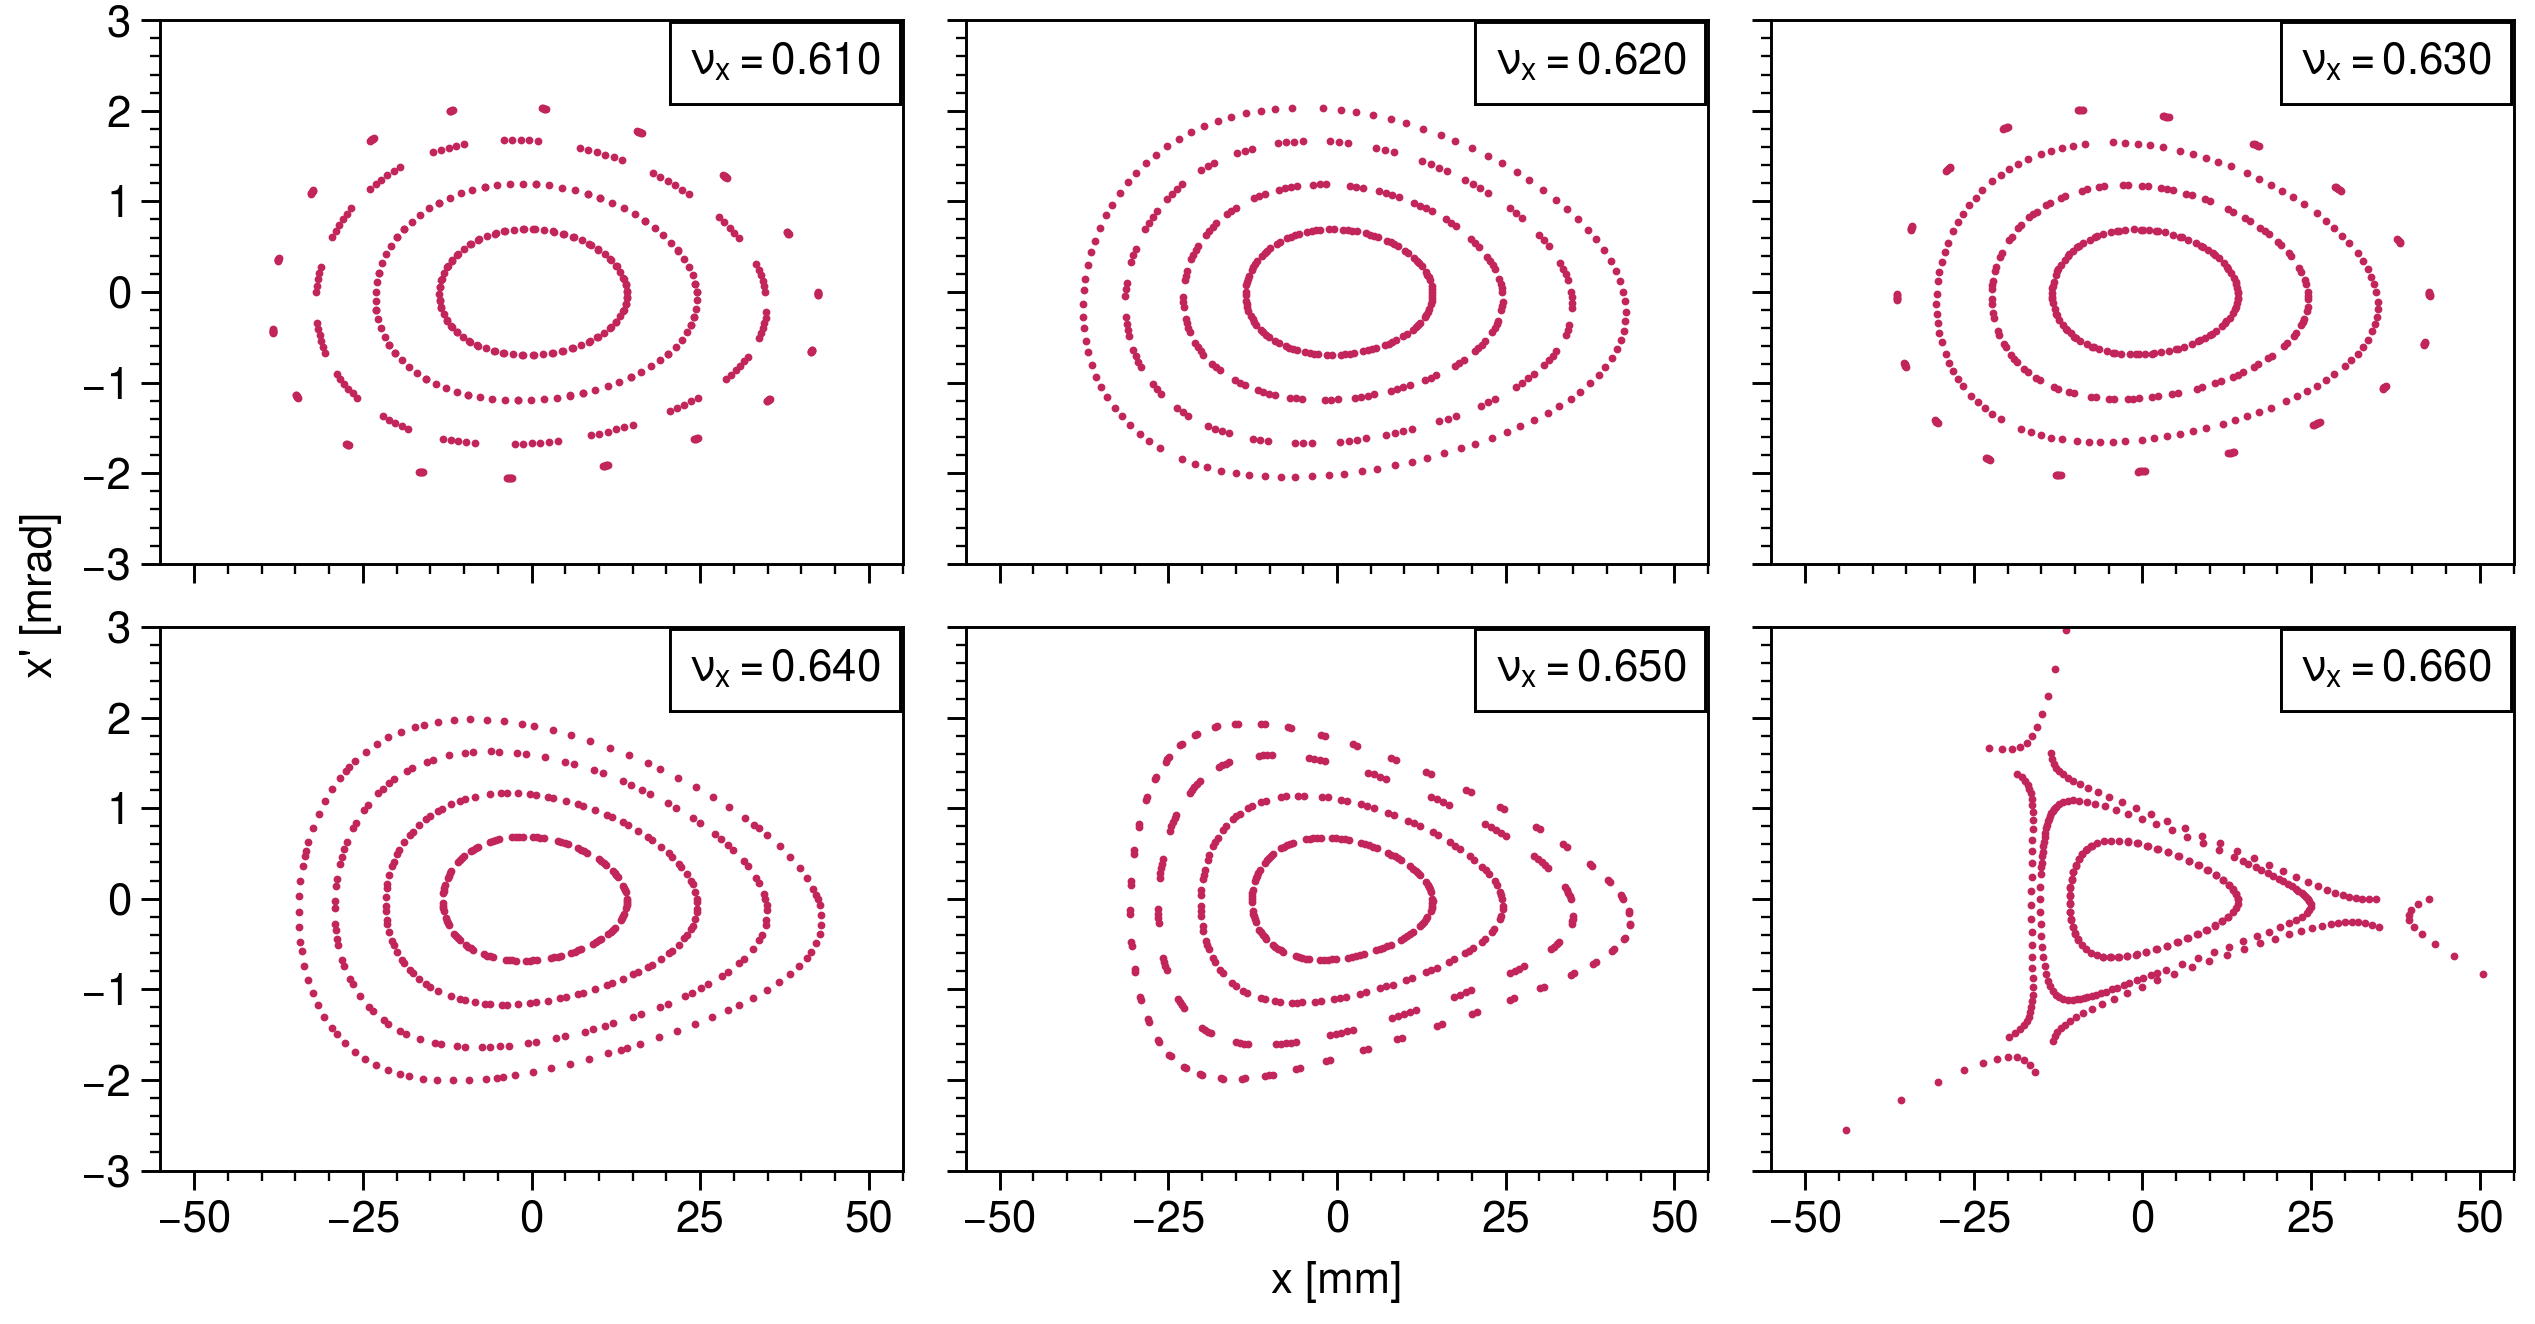
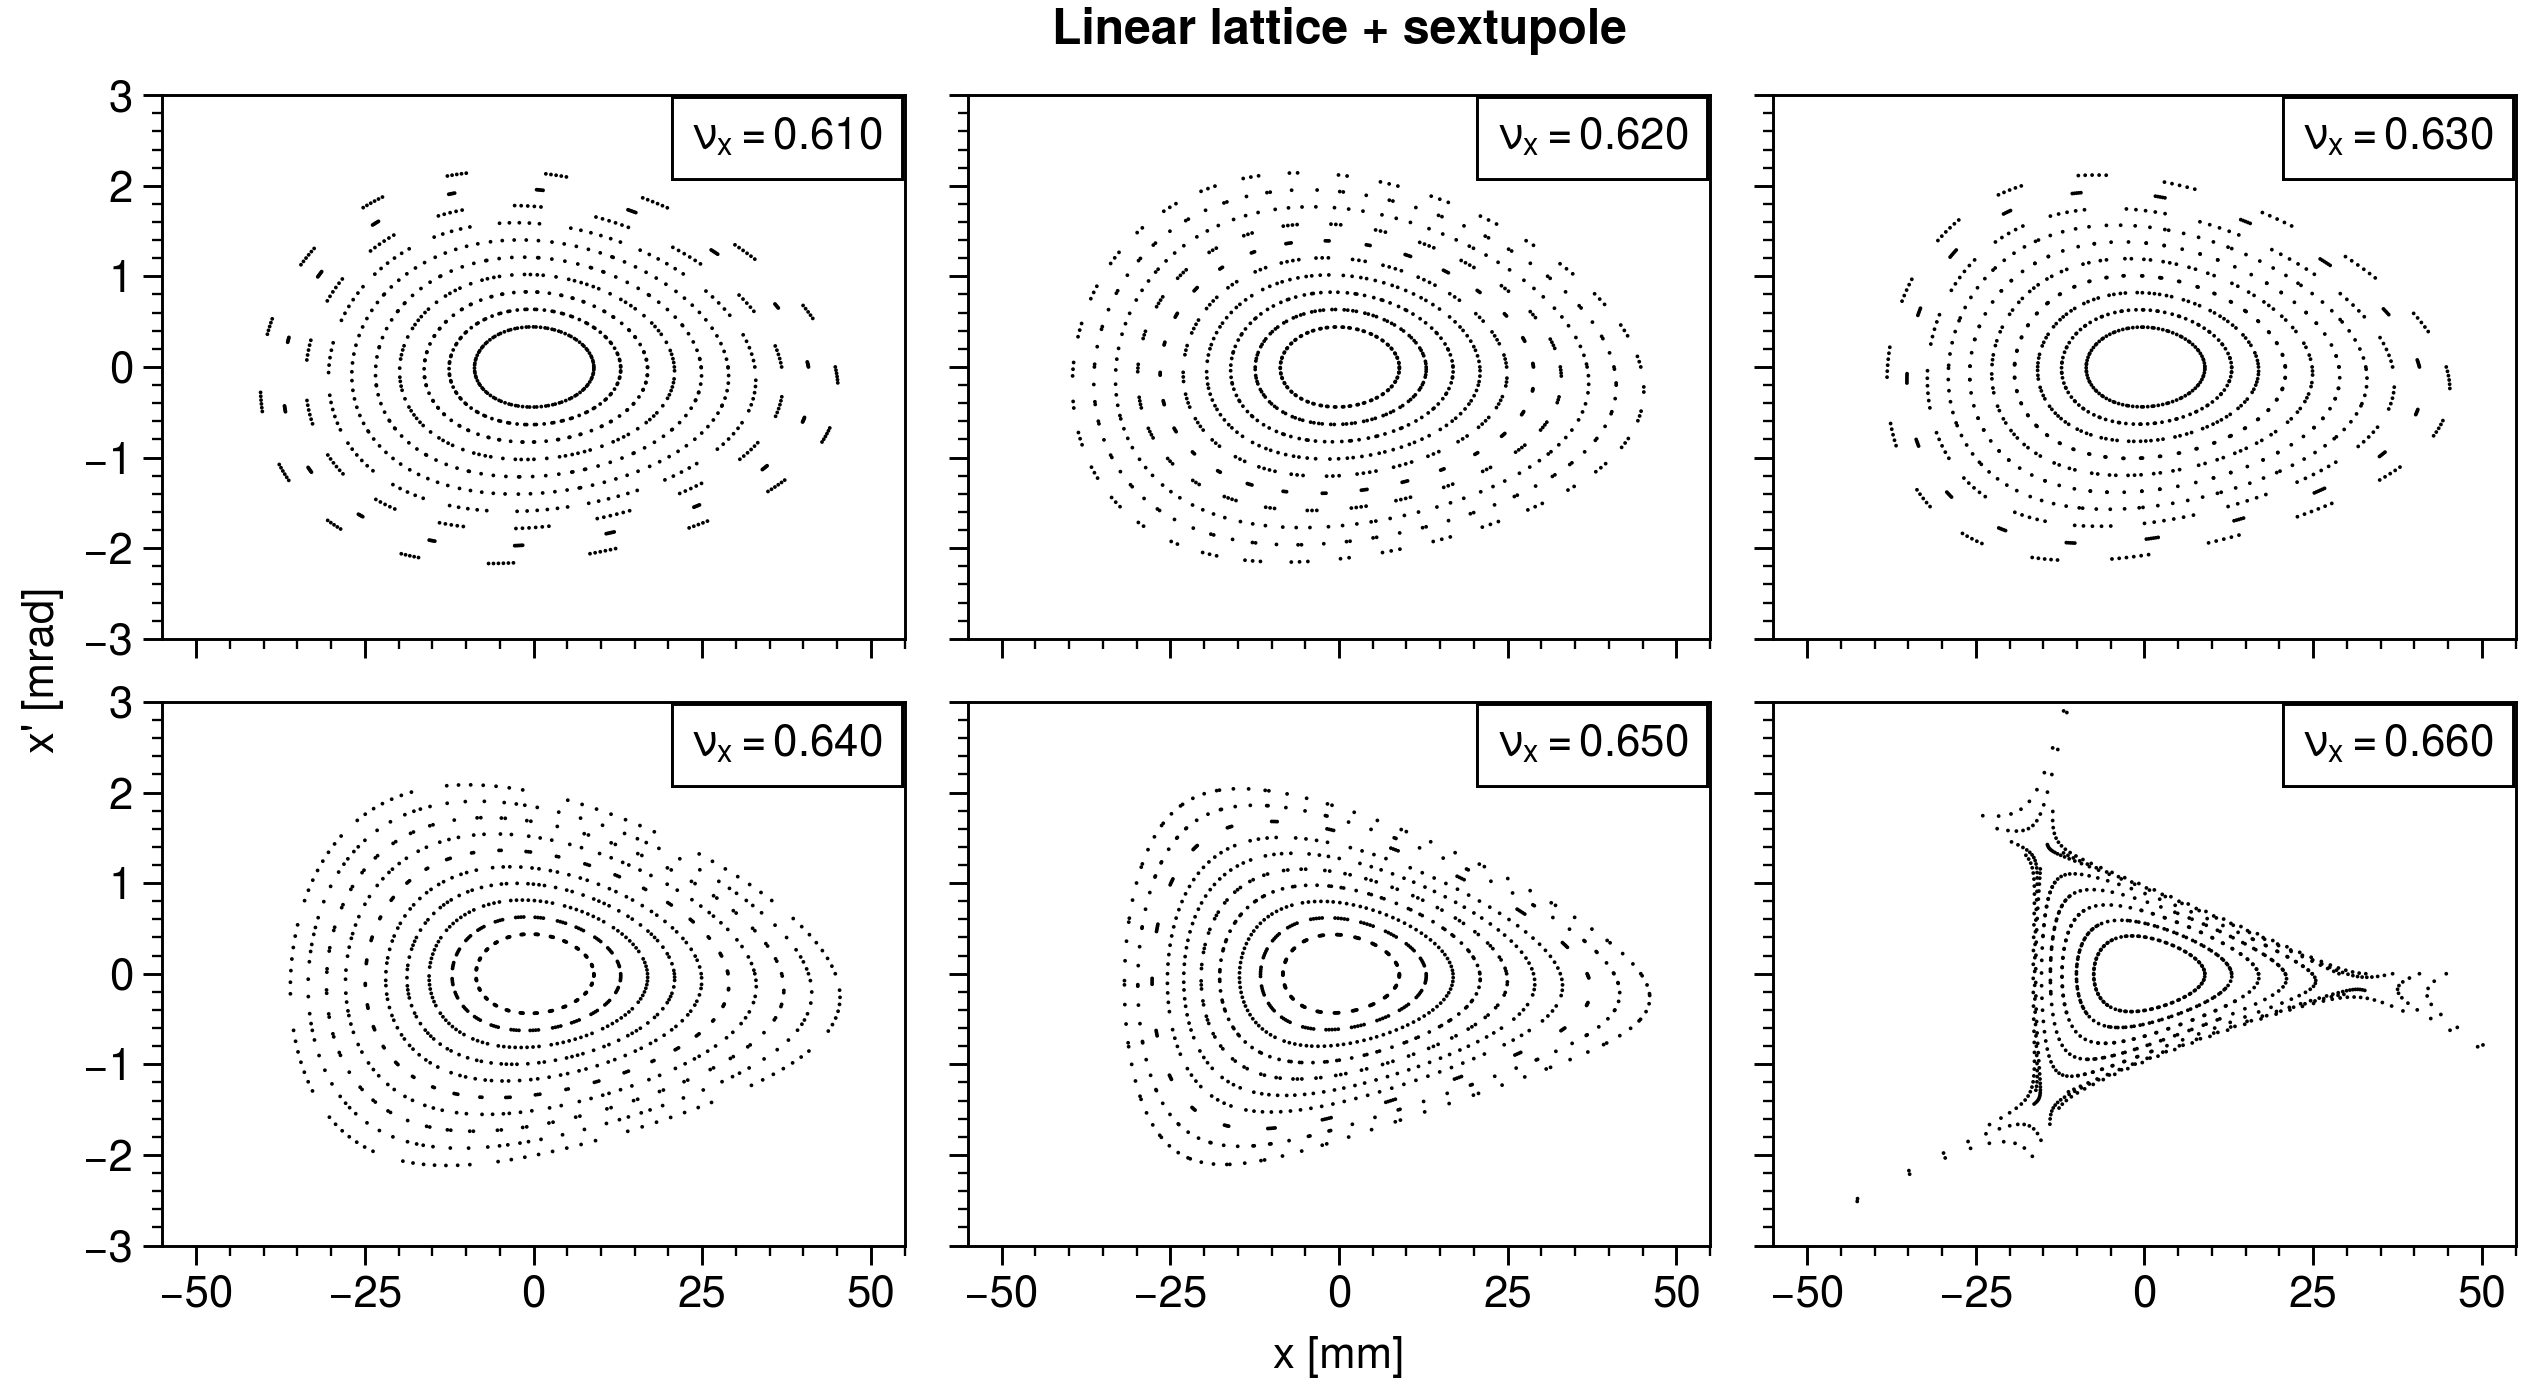
Make figures black and white

diff --git a/MainText/chapter1.tex b/MainText/chapter1.tex
@@ -113,7 +113,7 @@ Liouville's theorem is no longer valid in two-dimensional (2D) phase space; inst
 %
 \begin{figure}[!p]
     \centering
-    \includegraphics[width=0.8\textwidth]{Images/chapter1/skew_quad_single_particle_tbt.png}
+    \includegraphics[width=0.85\textwidth]{Images/chapter1/skew_quad_single_particle_tbt.png}
     \caption{Turn-by-turn trajectory of a particle in a linear lattice with the addition of a skew quadrupole.}
     \label{fig:skew_quad_single_particle_tbt}
 \end{figure}
